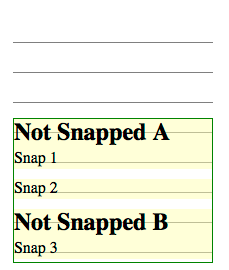
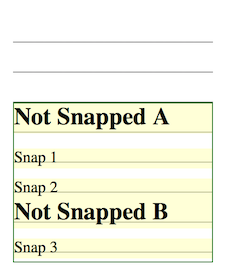
[css-line-grid] fix bottom example

diff --git a/css-line-grid/Overview.html b/css-line-grid/Overview.html
@@ -12,7 +12,7 @@
    rel=dcterms.rights>
   <meta content="CSS Line Grid Module Level 1" name=dcterms.title>
   <meta content=text name=dcterms.type>
-  <meta content=2014-07-22 name=dcterms.date>
+  <meta content=2014-07-23 name=dcterms.date>
   <meta content="Elika Etemad" name=dcterms.creator>
   <meta content="Koji Ishii" name=dcterms.creator>
   <meta content="Alan Stearns" name=dcterms.creator>
@@ -51,13 +51,13 @@
 
    <h1>CSS Line Grid Module Level 1</h1>
 
-   <h2 class="no-num no-toc">Editor's Draft 22 July 2014</h2>
+   <h2 class="no-num no-toc">Editor's Draft 23 July 2014</h2>
 
    <dl>
     <dt>This version:
 
     <dd><a href="http://dev.w3.org/csswg/css-line-grid-1/">
-     http://www.w3.org/TR/2014/ED-css-line-grid-1-20140722/</a>
+     http://www.w3.org/TR/2014/ED-css-line-grid-1-20140723/</a>
 
     <dt>Latest version:
 
@@ -606,11 +606,14 @@
    </figcaption> </figure></div>
 
   <div class=example>
-   <p>An end-aligned block shifts snapped lines upward from the block-end
-    direction. The shifting distance between any two adjacent snapped lines
-    will be the same as in the other alignment cases. The main difference is
-    that the shifting between snapped and not-snapped lines (or the block
-    edge) occurs below the snapped lines.
+   <p> An end-aligned block also uses two steps, but is simpler than the
+    centered case.
+
+   <p> First, shift the snapping lines as if there were no centering (as in
+    figure 8 above), then end-align the block.
+
+   <p> Second, shift the entire block contents upwards until the last snapped
+    line aligns to a grid line. In this example, the shift is very minor.
    <figure style="float:left;"> <img alt="line positions before snapping"
    src="images/bottom-no-snap.png"> <figcaption> Before snapping
    </figcaption> </figure> <figure style="float:left;"> <img

diff --git a/css-line-grid/Overview.src.html b/css-line-grid/Overview.src.html
@@ -457,7 +457,14 @@ Snapping Line Boxes: the 'line-snap' property</h3>
 
   <div class="example">
 
-    <p>An end-aligned block shifts snapped lines upward from the block-end direction. The shifting distance between any two adjacent snapped lines will be the same as in the other alignment cases. The main difference is that the shifting between snapped and not-snapped lines (or the block edge) occurs below the snapped lines. 
+    <p>
+      An end-aligned block also uses two steps, but is simpler than the centered case.
+    </p>
+    <p>
+      First, shift the snapping lines as if there were no centering (as in figure 8 above), then end-align the block.
+    </p>
+    <p>
+      Second, shift the entire block contents upwards until the last snapped line aligns to a grid line. In this example, the shift is very minor.
     </p>
     <figure style="float:left;">
       <img src="images/bottom-no-snap.png" 

diff --git a/css-line-grid/examples/positioned-blocks.html b/css-line-grid/examples/positioned-blocks.html
@@ -41,28 +41,22 @@
         line-height: 20px;
     }
 
-    .top .snap .one {
+    .snap .one {
         margin-top: 15px;
     }
-    .top .snap .two {
+    .snap .two {
         margin-top: 10px;
     }
-    .top .snap .three {
+    .snap .three {
         margin-top: 10px;
     }
 
-    .bottom .snap .one {
-        margin-bottom: 10px;
-    }
-    .bottom .snap .two {
-        margin-bottom: 10px;
-    }
     .bottom .snap .three {
         margin-bottom: 3px;
     }
 
-    .center .snap .two {
-        margin-top: 10px;
+    .center .snap .one {
+        margin-top: 0px;
     }
     .center .snap .three {
         margin-top: 10px;
